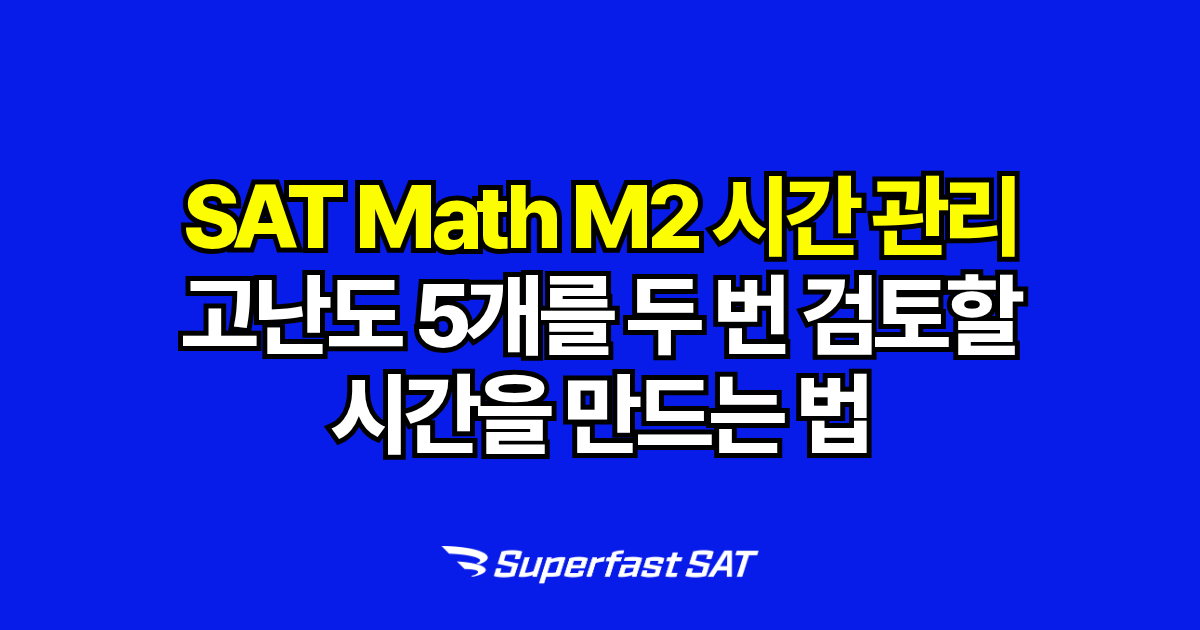
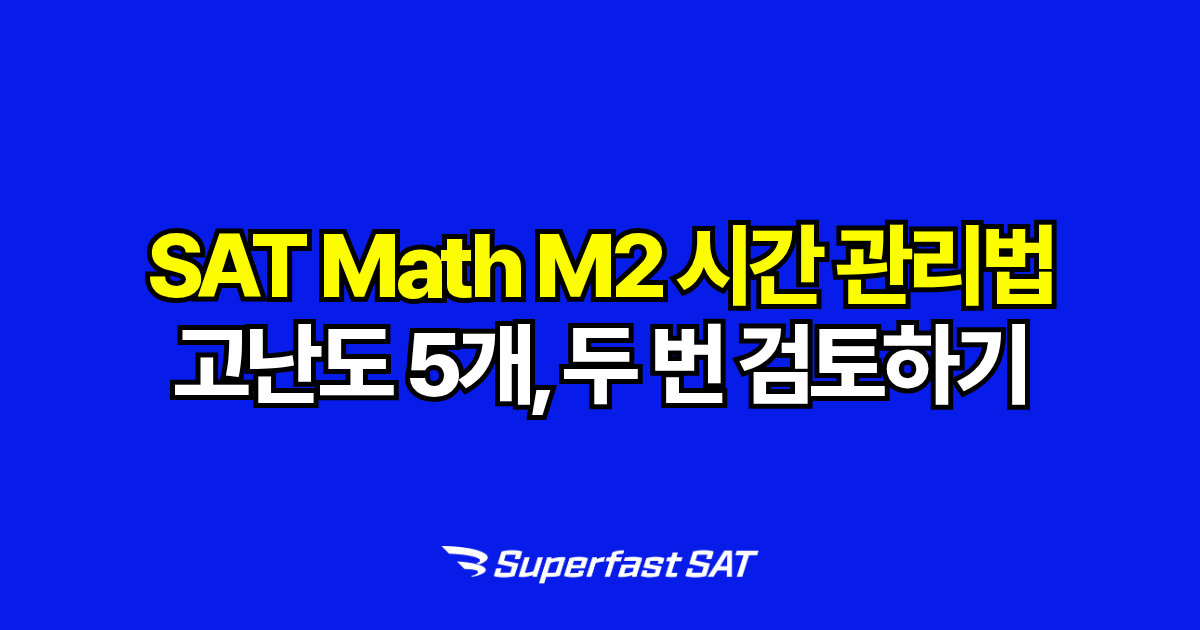
feat(blog): Ghost 썸네일 텍스트 Claude 자동 요약 적용
- 제목 직접 입력 대신 Claude Haiku가 썸네일용 2줄 텍스트 자동 생성
- content/posts/ 파일에서 제목 자동 탐색 (슬러그만으로 실행 가능)
- sat-math-time-management 썸네일 자동 요약 버전으로 재생성

사용법: node generate-ghost-thumbnail.js <slug> [<제목>]

Changed region(s): [[0.1233, 0.2714, 0.8942, 0.754]]

diff --git a/generate-ghost-thumbnail.js b/generate-ghost-thumbnail.js
@@ -1,8 +1,11 @@
 #!/usr/bin/env node
 /**
  * Ghost 블로그 썸네일 생성기 (텍스트 기반, Playwright 렌더링)
- * Usage: node generate-ghost-thumbnail.js <slug> "<줄1>" "<줄2>"
- * Example: node generate-ghost-thumbnail.js sat-math-m2-time-management "SAT Math M2 시간 관리" "고난도 5개를 두 번 검토할 시간을 만드는 법"
+ * Usage: node generate-ghost-thumbnail.js <slug> [<제목>]
+ * - 제목 생략 시 content/posts/ 에서 자동 탐색
+ * - Claude API가 제목을 썸네일용 2줄 텍스트로 자동 요약
+ * Example: node generate-ghost-thumbnail.js sat-math-time-management
+ *          node generate-ghost-thumbnail.js sat-math-time-management "SAT Math M2 시간 관리 전략"
  */
 
 require('dotenv').config({ path: '.env.local' })
@@ -17,12 +20,65 @@ const SUPABASE_URL = process.env.NEXT_PUBLIC_SUPABASE_URL
 const SUPABASE_KEY = process.env.SUPABASE_SERVICE_ROLE_KEY
 const GHOST_URL = process.env.GHOST_URL
 const [GHOST_KEY_ID, GHOST_SECRET] = (process.env.GHOST_ADMIN_KEY || ':').split(':')
+const ANTHROPIC_API_KEY = process.env.ANTHROPIC_API_KEY
 
-const [slug, line1, line2] = process.argv.slice(2)
+const [slug, titleArg] = process.argv.slice(2)
 
-if (!slug || !line1) {
-  console.error('Usage: node generate-ghost-thumbnail.js <slug> "<줄1>" "<줄2>"')
+if (!slug) {
+  console.error('Usage: node generate-ghost-thumbnail.js <slug> [<제목>]')
   process.exit(1)
+}
+
+function findTitleFromSlug(slug) {
+  const contentDir = path.join(__dirname, 'content/posts')
+  if (!fs.existsSync(contentDir)) return null
+  const files = fs.readdirSync(contentDir).filter(f => f.includes(slug) && f.endsWith('.md'))
+  if (!files.length) return null
+  const raw = fs.readFileSync(path.join(contentDir, files[0]), 'utf8')
+  const m = raw.match(/^title:\s*["']?(.+?)["']?\s*$/m)
+  return m ? m[1].trim() : null
+}
+
+async function summarizeTitle(title) {
+  const body = JSON.stringify({
+    model: 'claude-haiku-4-5-20251001',
+    max_tokens: 100,
+    messages: [{
+      role: 'user',
+      content: `다음 블로그 제목을 썸네일 이미지에 들어갈 임팩트 있는 2줄 텍스트로 요약해줘.
+규칙: 각 줄 한글 12자 이내, 핵심 키워드 중심, 구어체 금지, 숫자/영어 활용 권장.
+JSON만 반환 (다른 텍스트 없이): { "line1": "...", "line2": "..." }
+제목: ${title}`
+    }]
+  })
+
+  return new Promise((resolve, reject) => {
+    const req = https.request({
+      hostname: 'api.anthropic.com',
+      path: '/v1/messages',
+      method: 'POST',
+      headers: {
+        'x-api-key': ANTHROPIC_API_KEY,
+        'anthropic-version': '2023-06-01',
+        'Content-Type': 'application/json',
+        'Content-Length': Buffer.byteLength(body),
+      },
+    }, (res) => {
+      let data = ''
+      res.on('data', chunk => data += chunk)
+      res.on('end', () => {
+        if (res.statusCode >= 400) return reject(new Error(`Anthropic API ${res.statusCode}: ${data}`))
+        const result = JSON.parse(data)
+        const text = result.content?.[0]?.text || ''
+        const jsonMatch = text.match(/\{[\s\S]*\}/)
+        if (!jsonMatch) return reject(new Error('JSON 파싱 실패: ' + text))
+        resolve(JSON.parse(jsonMatch[0]))
+      })
+    })
+    req.on('error', reject)
+    req.write(body)
+    req.end()
+  })
 }
 
 const supabase = createClient(SUPABASE_URL, SUPABASE_KEY)
@@ -113,9 +169,19 @@ function buildHTML(line1, line2, logoBase64) {
 }
 
 async function run() {
-  console.log('[1/3] 썸네일 렌더링 중...')
+  const title = titleArg || findTitleFromSlug(slug)
+  if (!title) {
+    console.error(`❌ 제목을 찾을 수 없습니다. 인수로 직접 전달하거나 content/posts/ 에 파일이 있어야 합니다.`)
+    process.exit(1)
+  }
+  console.log(`      제목: ${title}`)
+
+  console.log('[0/3] Claude로 썸네일 텍스트 생성 중...')
+  const { line1, line2 } = await summarizeTitle(title)
   console.log(`      줄1: ${line1}`)
-  if (line2) console.log(`      줄2: ${line2}`)
+  console.log(`      줄2: ${line2}`)
+
+  console.log('[1/3] 썸네일 렌더링 중...')
 
   const logoPath = path.join(__dirname, 'public/white-logo.png')
   const logoBase64 = fs.existsSync(logoPath) ? fs.readFileSync(logoPath).toString('base64') : null
